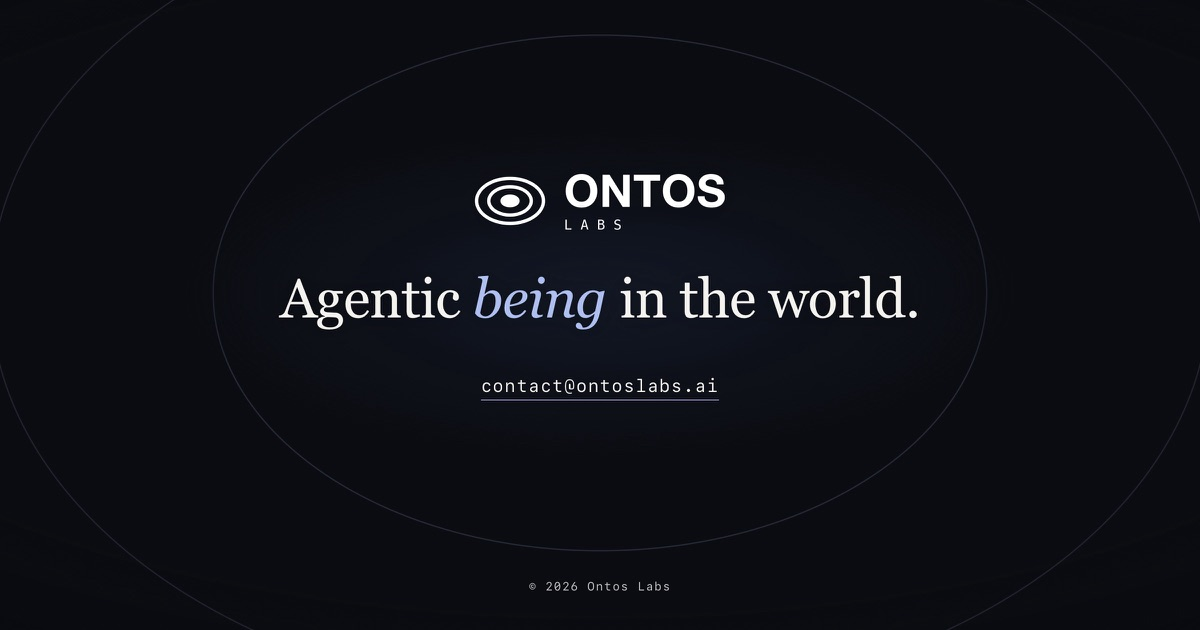
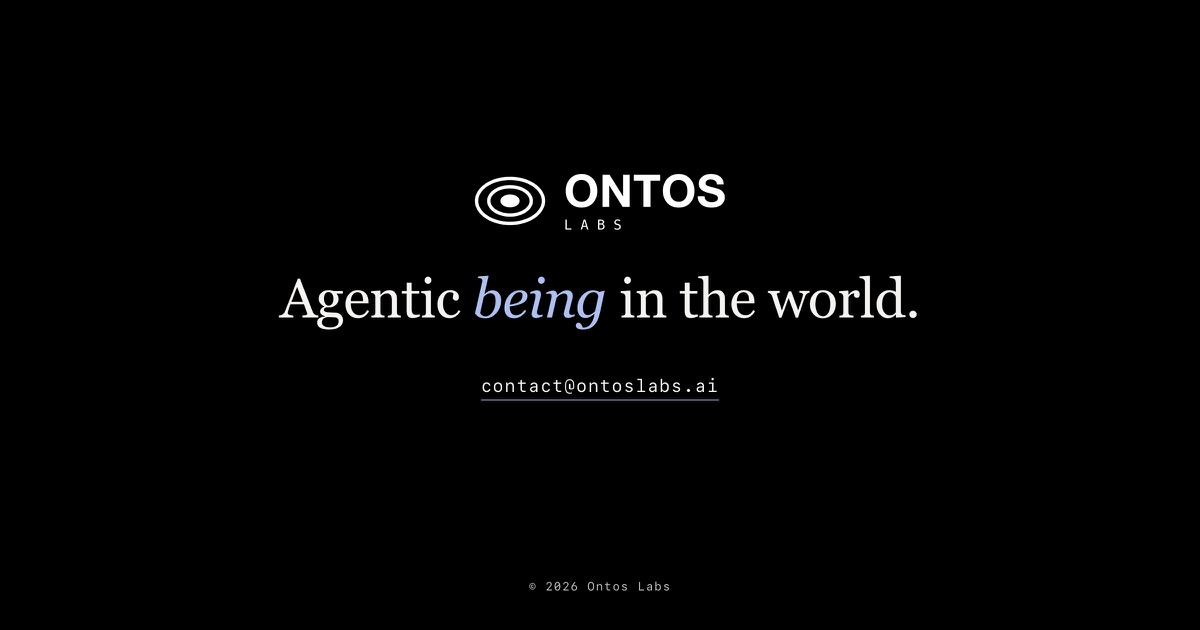
Plain black background

diff --git a/styles.css b/styles.css
@@ -1,7 +1,7 @@
 /* Ontos Labs: one-page stealth site. Brand palette. */
 :root {
   color-scheme: dark;
-  --night: #0b0d12;         /* page base: near-black, slightly blue */
+  --night: #000;            /* page base: black */
   --text: #f4f3ef;          /* brand paper, used as ink on dark */
   --text-soft: rgba(244, 243, 239, 0.78);
   --accent: #5371c4;        /* brand accent */
@@ -11,7 +11,7 @@
   --sans: system-ui, -apple-system, "Segoe UI", "Helvetica Neue", Helvetica, Arial, sans-serif;
   --pad-x: clamp(1.25rem, 5vw, 3rem);
   --pad-y: clamp(1rem, 3.5vh, 2rem);
-  /* Same insets as the body padding, reused to centre the orbit on the text block. */
+  /* Same insets as the body padding, reused by the layout. */
   --pt: max(var(--pad-y), env(safe-area-inset-top));
   --pb: max(var(--pad-y), env(safe-area-inset-bottom));
   --pl: max(var(--pad-x), env(safe-area-inset-left));
@@ -19,8 +19,6 @@
   --foot-h: 2.75rem;
   --stage-h: calc(100vh - var(--pt) - var(--pb) - var(--foot-h));
   --motto-size: clamp(2rem, min(1.2rem + 3.6vw, 7.5vh + 0.5rem), 5rem);
-  --ring: rgba(174, 191, 240, 0.45);
-  --ring-outer: rgba(174, 191, 240, 0.30);
 }
 @supports (height: 100dvh) {
   :root { --stage-h: calc(100dvh - var(--pt) - var(--pb) - var(--foot-h)); }
@@ -66,48 +64,6 @@ body {
   white-space: nowrap;
 }
 
-/* ---------- Background: the Ontos orbit ----------
-   Two thin rings of the logo mark, scaled up and centred on the text block.
-   The middle ring always encloses the text; the outer ring is cropped by the
-   viewport. Nothing is drawn behind the words. */
-.bg {
-  position: absolute;
-  inset: 0;
-  z-index: 0;
-  overflow: hidden;
-  pointer-events: none;
-  background:
-    radial-gradient(120% 90% at 50% 46%, rgba(6, 7, 10, 0) 55%, rgba(6, 7, 10, 0.55) 100%),
-    var(--night);
-}
-
-.orbit {
-  /* --r is the middle ring's horizontal radius. Portrait: the outer ring's
-     bottom stays clear of the footer (1.5rem gap; on short phones the gap
-     shrinks towards 0.25rem so the middle ring keeps clear of the logo). */
-  --r: calc(0.943 * (var(--stage-h) / 2 - clamp(0.25rem, 0.25rem + (var(--stage-h) - 30rem) * 0.15, 1.5rem)));
-  position: absolute;
-  left: calc(var(--pl) + (100% - var(--pl) - var(--pr)) / 2);
-  top: calc(var(--pt) + (100% - var(--pt) - var(--pb) - var(--foot-h)) / 2);
-  width: calc(var(--r) * 52 / 16.5);
-  height: calc(var(--r) * 35 / 16.5);
-  transform: translate(-50%, -50%);
-  overflow: visible;
-}
-/* Landscape: the middle ring fills ~7/8 of the stage height (wider if the motto
-   needs it); the outer ring runs off the top and bottom and cuts the corners. */
-@media (min-aspect-ratio: 11/10) {
-  .orbit { --r: max(7 * var(--motto-size), 0.656 * var(--stage-h)); }
-}
-
-.ring {
-  fill: none;
-  stroke: var(--ring);
-  stroke-width: 2;
-  vector-effect: non-scaling-stroke;
-}
-.ring-outer { stroke: var(--ring-outer); }
-
 /* ---------- Content ---------- */
 .stage, .foot { position: relative; z-index: 1; }
 
@@ -121,9 +77,7 @@ body {
   padding-block: clamp(1.5rem, 6vh, 4rem);
 }
 
-/* Text block. Its halo is a soft plate of the page colour (plus a faint blue
-   glow, the mark's inner ellipse) drawn above the rings, so even on unusual
-   screen shapes no line can show through the words. */
+/* Text block. */
 .core {
   position: relative;
   isolation: isolate;
@@ -132,16 +86,6 @@ body {
   align-items: center;
   min-width: 0;
   max-width: 100%;
-}
-.core::before {
-  content: "";
-  position: absolute;
-  z-index: -1;
-  inset: calc(-1 * clamp(2rem, 7vh, 5rem)) calc(-1 * clamp(2.5rem, 8vw, 7rem));
-  background:
-    radial-gradient(closest-side, rgba(83, 113, 196, 0.11), rgba(83, 113, 196, 0.045) 55%, rgba(83, 113, 196, 0) 100%),
-    radial-gradient(closest-side, var(--night) 72%, rgba(11, 13, 18, 0) 100%);
-  pointer-events: none;
 }
 
 .logo {
@@ -240,12 +184,10 @@ body {
 
 /* Windows High Contrast / forced colours: keep everything visible */
 @media (forced-colors: active) {
-  .bg, .core::before { display: none; }
   .logo, .motto, .motto em { color: CanvasText; }
 }
 
 @media print {
-  .bg, .core::before { display: none !important; }
   body { color: #262625; background: #fff; }
   .logo, .motto, .motto em, .contact a { color: #262625; text-shadow: none; }
 }

diff --git a/index.html b/index.html
@@ -6,7 +6,7 @@
 <title>Ontos Labs</title>
 <meta name="description" content="Agentic being in the world.">
 <meta name="color-scheme" content="dark">
-<meta name="theme-color" content="#0b0d12">
+<meta name="theme-color" content="#000000">
 <meta name="format-detection" content="telephone=no">
 <link rel="icon" href="favicon.ico" sizes="32x32">
 <link rel="icon" href="favicon.svg" type="image/svg+xml">
@@ -29,14 +29,6 @@
 <meta name="twitter:image:alt" content="Ontos Labs. Agentic being in the world.">
 </head>
 <body>
-<div class="bg" aria-hidden="true">
-  <!-- The Ontos mark (outer ring rx26 ry17.5, middle ring rx16.5 ry11), drawn huge and faint.
-       Sized and centred on the text block in styles.css; strokes stay ~1.25px at any size. -->
-  <svg class="orbit" viewBox="-26 -17.5 52 35" focusable="false">
-    <ellipse class="ring ring-outer" rx="26" ry="17.5"/>
-    <ellipse class="ring ring-mid" rx="16.5" ry="11"/>
-  </svg>
-</div>
 
 <main class="stage" id="main">
   <div class="core">

diff --git a/README.md b/README.md
@@ -1,15 +1,15 @@
 # Ontos Labs: stealth site
 
 A one-page static site: logo, motto and contact address on a dark background drawn from
-the Ontos orbit (the rings of the logo mark, scaled up). There is no build step and no
+a plain black background. There is no build step and no
 JavaScript; the folder is deployable as is.
 
 ## What's here
 
 | Path | What it is |
 | --- | --- |
-| `index.html` | The page: inline SVG logo, motto, `mailto:` link, inline SVG orbit background, social meta tags |
-| `styles.css` | Layout for phones, tablets and desktops, orbit sizing, text halo, focus styles, print and forced colours |
+| `index.html` | The page: inline SVG logo, motto, `mailto:` link, social meta tags |
+| `styles.css` | Layout for phones, tablets and desktops, focus styles, print and forced colours |
 | `media/og.jpg` | 1200x630 preview image for link sharing (a render of the page) |
 | `favicon.*`, `apple-touch-icon.png` | Icons |
 | `.nojekyll` | Tells GitHub Pages to serve the files exactly as they are |
@@ -60,28 +60,6 @@ After publishing, make the social preview URLs absolute: in `index.html`, change
 Email: the `mailto:contact@ontoslabs.ai` link only works if mail for that address is set up
 with your mail provider. GitHub Pages does not handle email.
 
-## The orbit background
+## Background
 
-The background is the logo mark's outer ring (rx 26, ry 17.5) and middle ring (rx 16.5,
-ry 11), drawn as one inline SVG in `index.html` with `viewBox="-26 -17.5 52 35"`. The
-mark's filled inner ellipse becomes a faint blue glow behind the text.
-
-- **Position:** centred on the text block (`.orbit` in `styles.css`, using the same safe-area
-  padding as the body and the 2.75rem footer height).
-- **Size:** `--r` is the middle ring's horizontal radius. In landscape (wider than 11:10) it is
-  `max(7 x motto size, 0.656 x stage height)`: the middle ring fills about 7/8 of the stage
-  height and always clears the motto, and the outer ring runs off the top and bottom and cuts
-  the corners. In portrait the rings run off the sides; `--r` keeps the outer ring's lower arc
-  above the footer (a 1.5rem gap, shrinking towards 0.25rem on short phones such as 320x568 so the
-  middle ring still clears the logo by about 18px).
-- **Strokes:** 1.25px at any size (`vector-effect: non-scaling-stroke`), in `--ring`
-  (`#aebff0` at 17%) and `--ring-outer` (13%).
-- **Clean text:** no ring passes behind the logo, motto, email or footer at any screen shape that
-  was checked: 320x568, 360x640, 375x667, 390x844, 430x932, 844x390, 768x1024, 1024x1366,
-  1280x800, 1440x900, 1920x1080 and 2560x1440 (closest approach: 18px, logo at 320x568).
-  `.core::before` is also a soft plate of the page colour drawn above the rings, so no line
-  can show through the words even on unusual screen shapes. Contrast on the plate: text
-  16:1, "being" 9.7:1, footer 10.7:1.
-
-To change how the orbit looks, edit `--ring`, `--ring-outer` and `--night`. After any
-visual change, re-render `media/og.jpg` at 1200x630.
+Plain black (`--night: #000` in `styles.css`), so the white text has maximum contrast.
